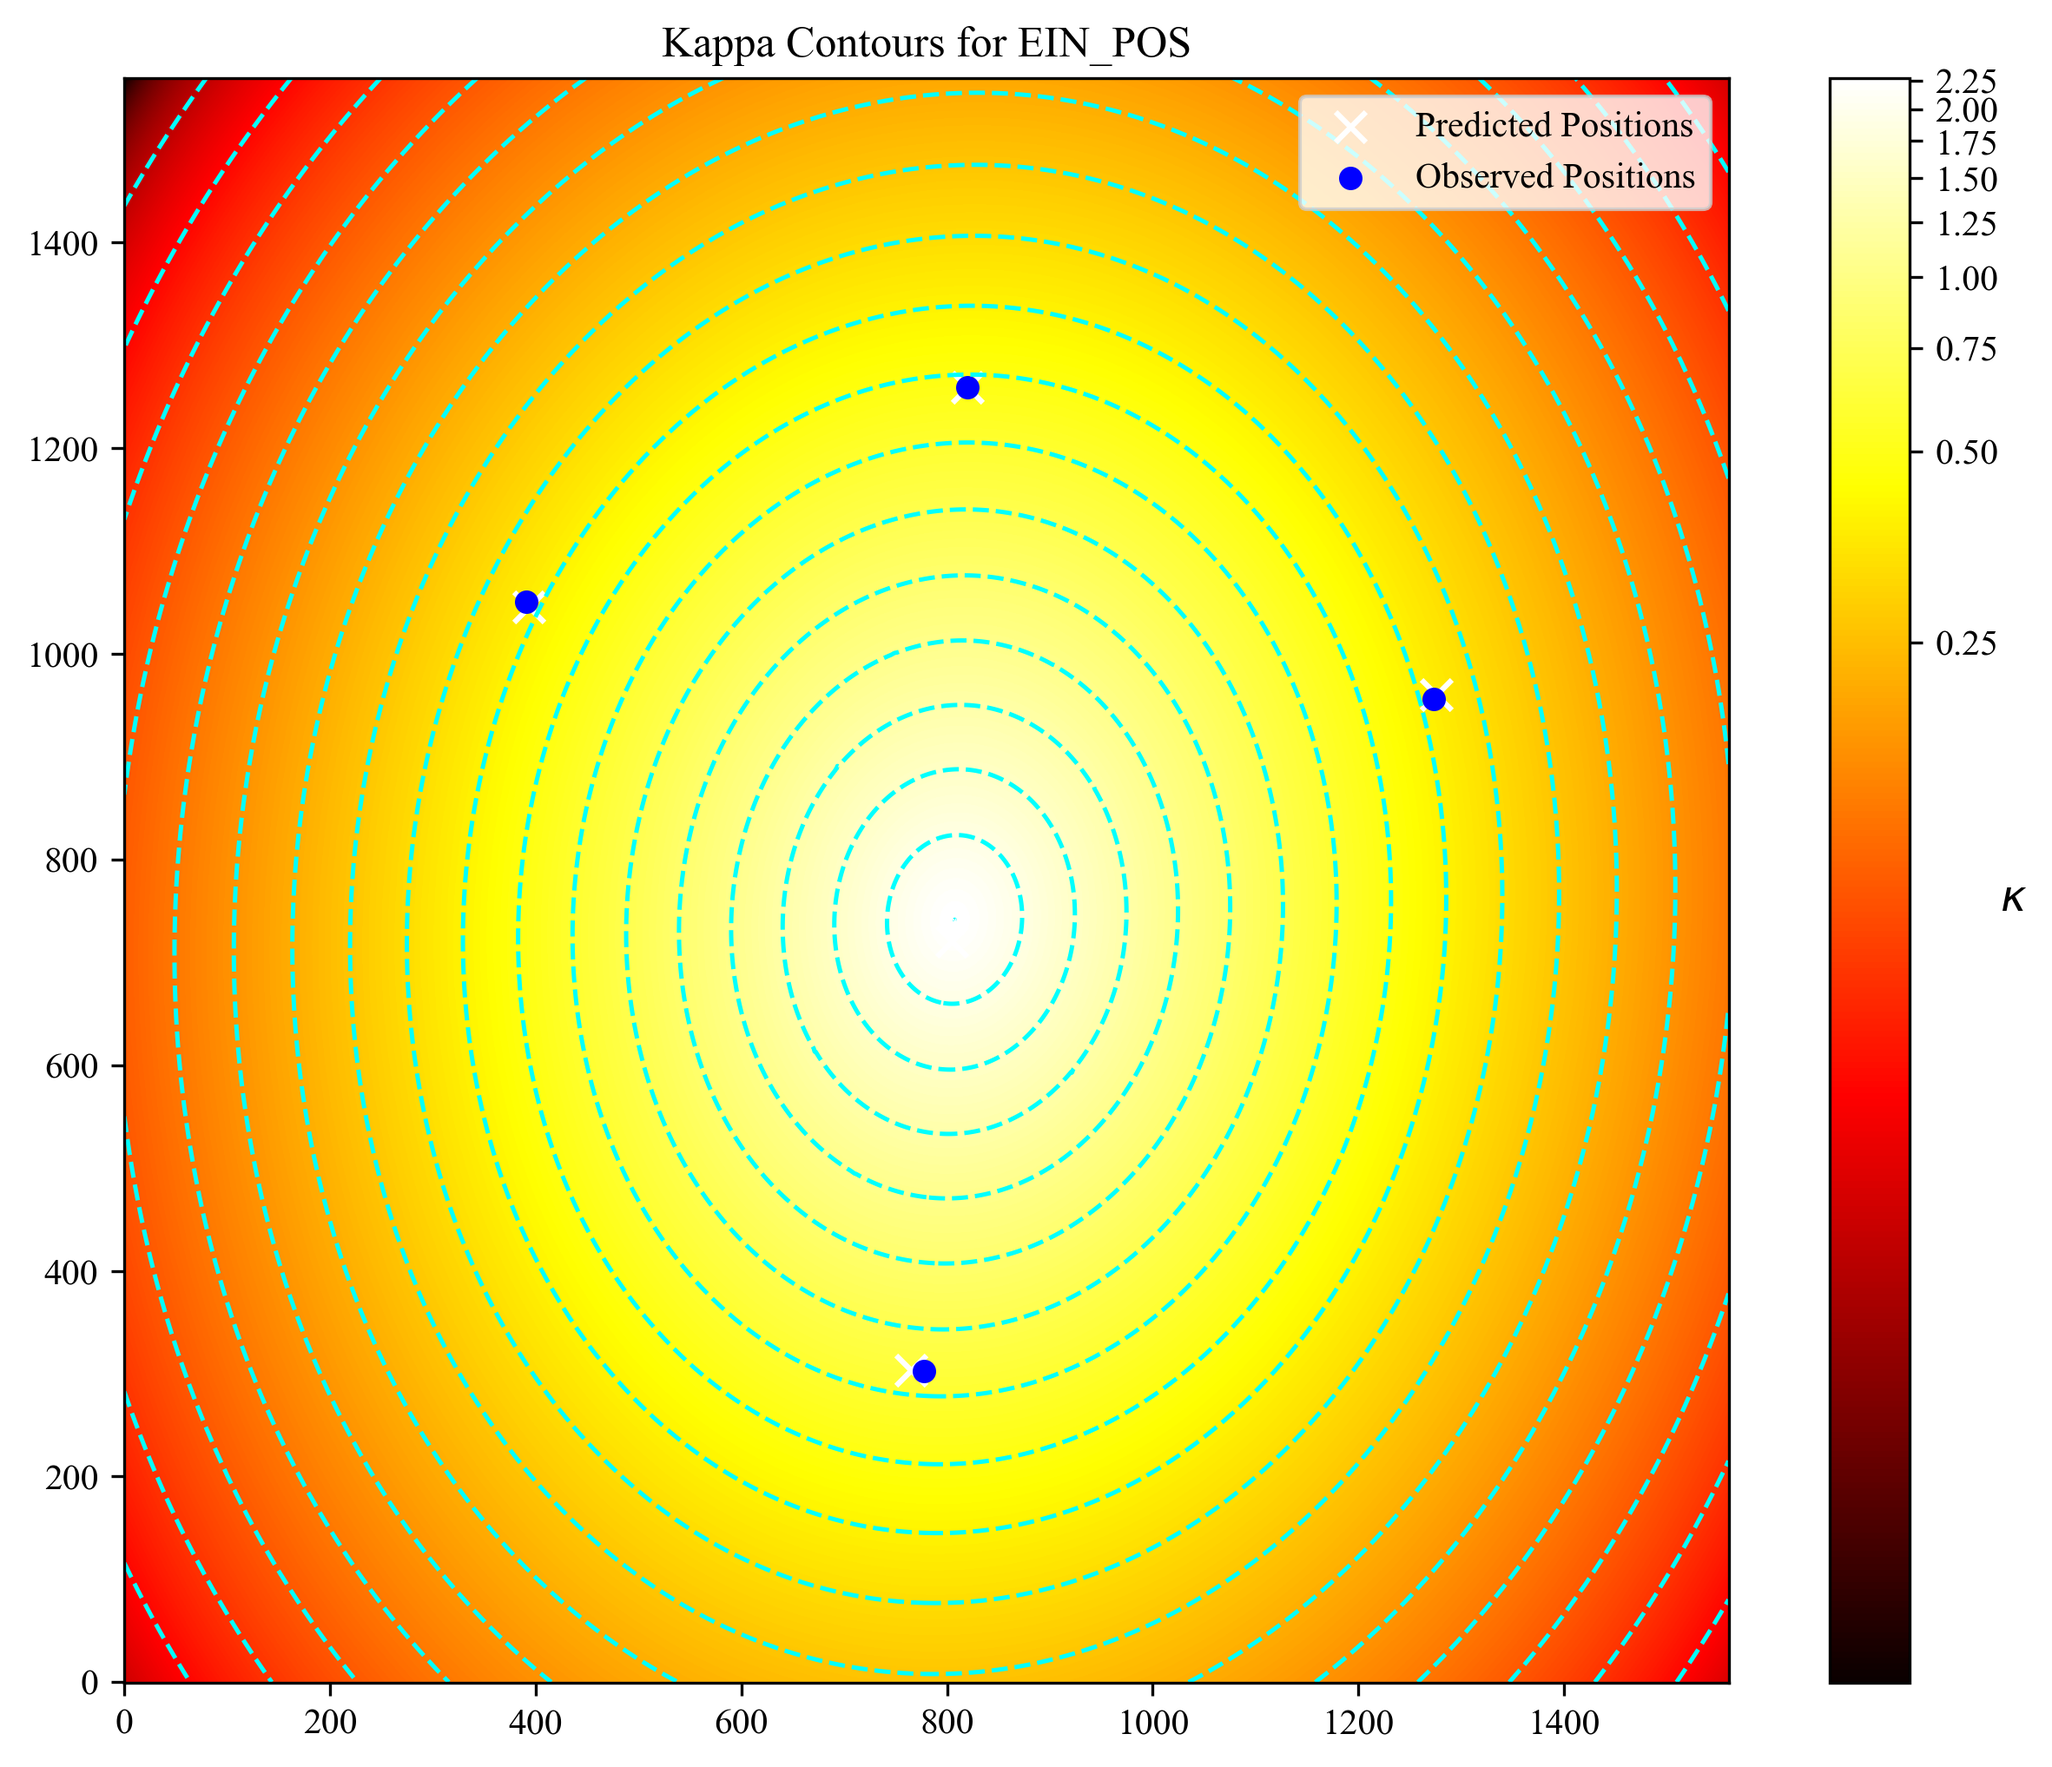
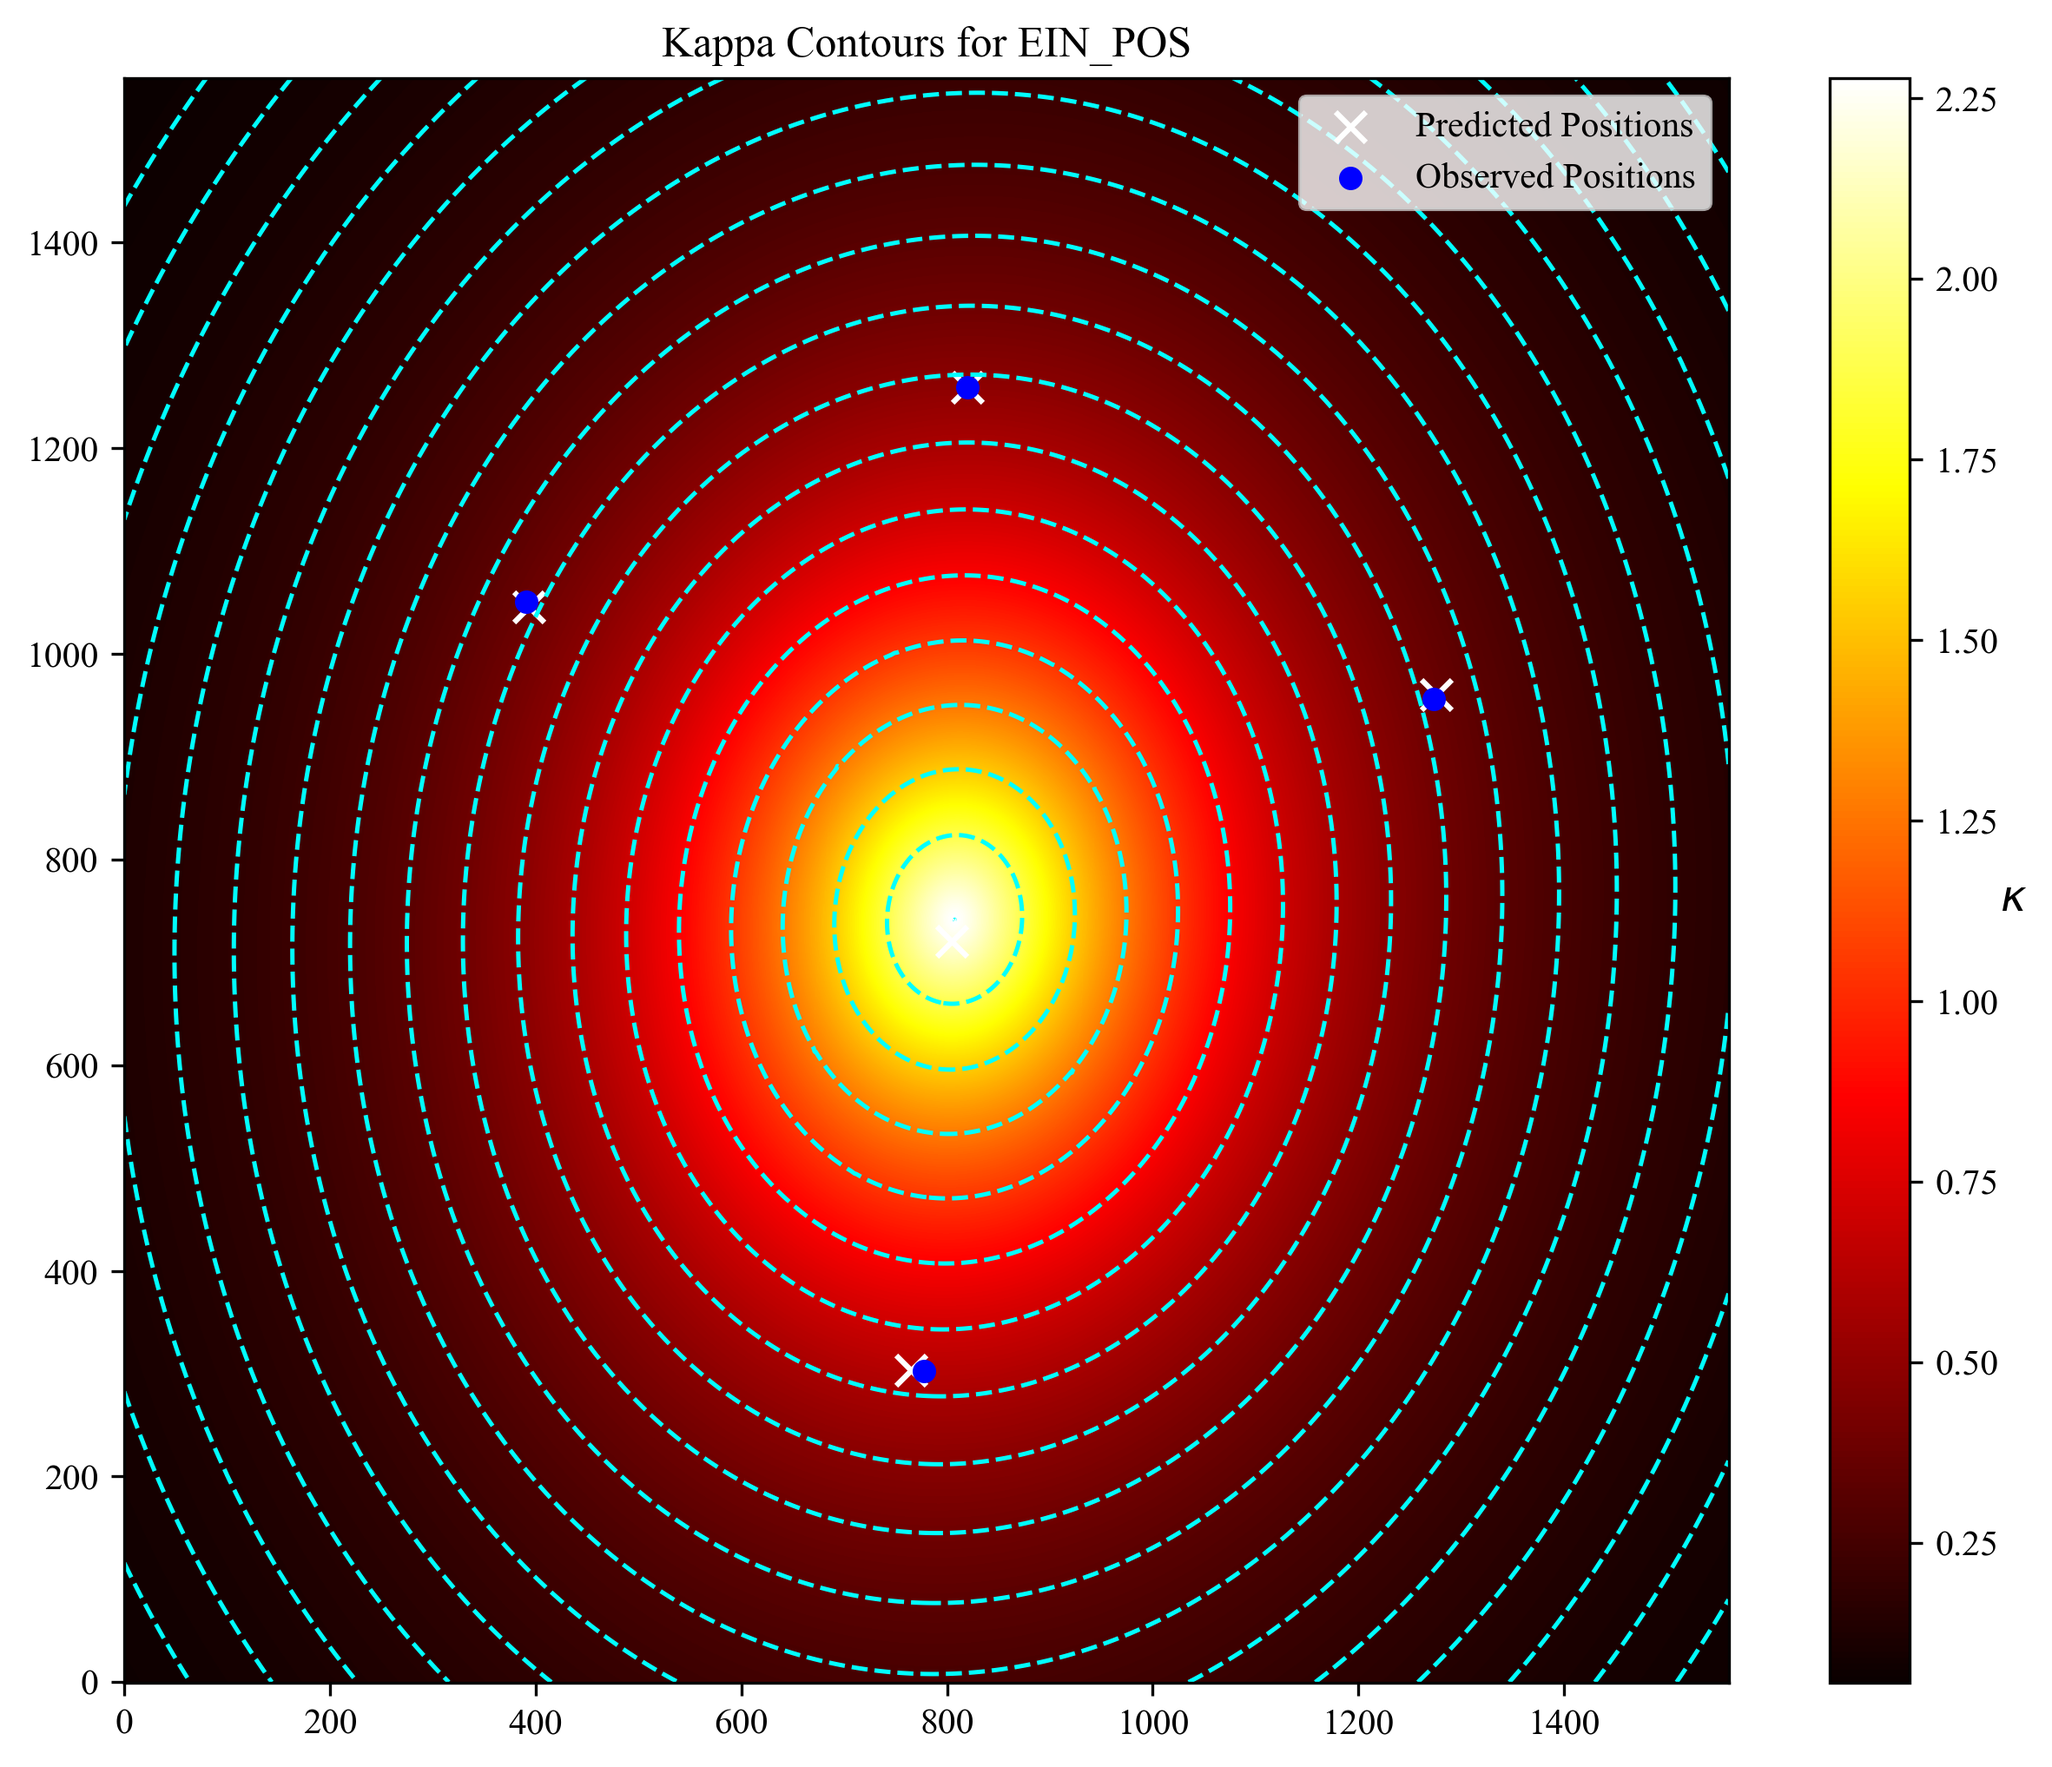
ein linear kappa plot

diff --git a/kappa_glafic.py b/kappa_glafic.py
@@ -1,7 +1,7 @@
 #!/usr/bin/env python
 import glafic
 
-glafic.init(0.3, 0.7, -1.0, 0.7, 'kappa/C_SIE/C_SIE_POS+FLUX', 20.0, 20.0, 21.56, 21.56, 0.001, 0.001, 1, verb = 0)
+glafic.init(0.3, 0.7, -1.0, 0.7, 'kappa/EIN/EIN_POS', 20.0, 20.0, 21.56, 21.56, 0.001, 0.001, 1, verb = 0)
 
 glafic.set_secondary('chi2_splane 0', verb = 0)
 glafic.set_secondary('chi2_checknimg 0', verb = 0)
@@ -11,8 +11,8 @@ glafic.set_secondary('hvary          0', verb = 0)
 glafic.set_secondary('ran_seed -122000', verb = 0)
 
 glafic.startup_setnum(1, 0, 1)
-glafic.set_lens(1, 'sie', 0.2613, 1.618724e+02, 2.080980e+01, 2.075980e+01, 1.158154e-01, -4.429027e+00, 2.407818e-02, 0.000000e+00)
-glafic.set_point(1, 1.000, 2.081269e+01, 2.077951e+01)
+glafic.set_lens(1, 'ein', 0.2613, 4.795440e+10, 2.080736e+01, 2.074175e+01, 2.012030e-01, -4.422571e+00, 4.999760e+01, 7.000000e-01)
+glafic.set_point(1, 1.000, 2.081290e+01, 2.077943e+01)
 
 glafic.setopt_lens(1, 0, 0, 0, 0, 0, 0, 0, 0)
 glafic.setopt_point(1, 0, 0, 0)
